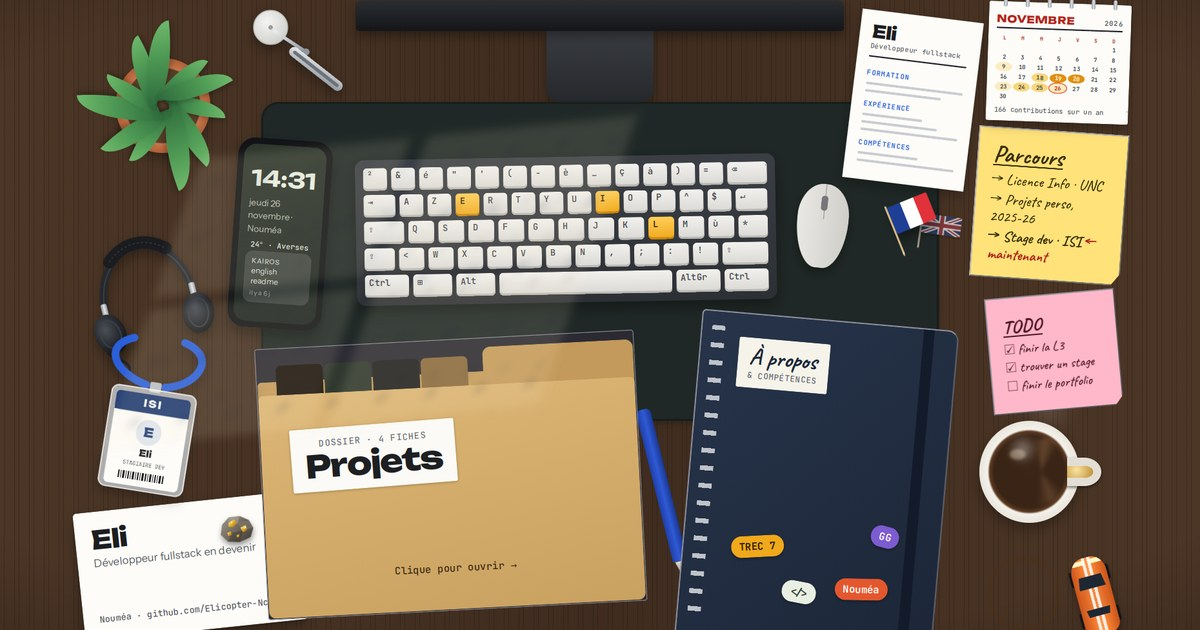
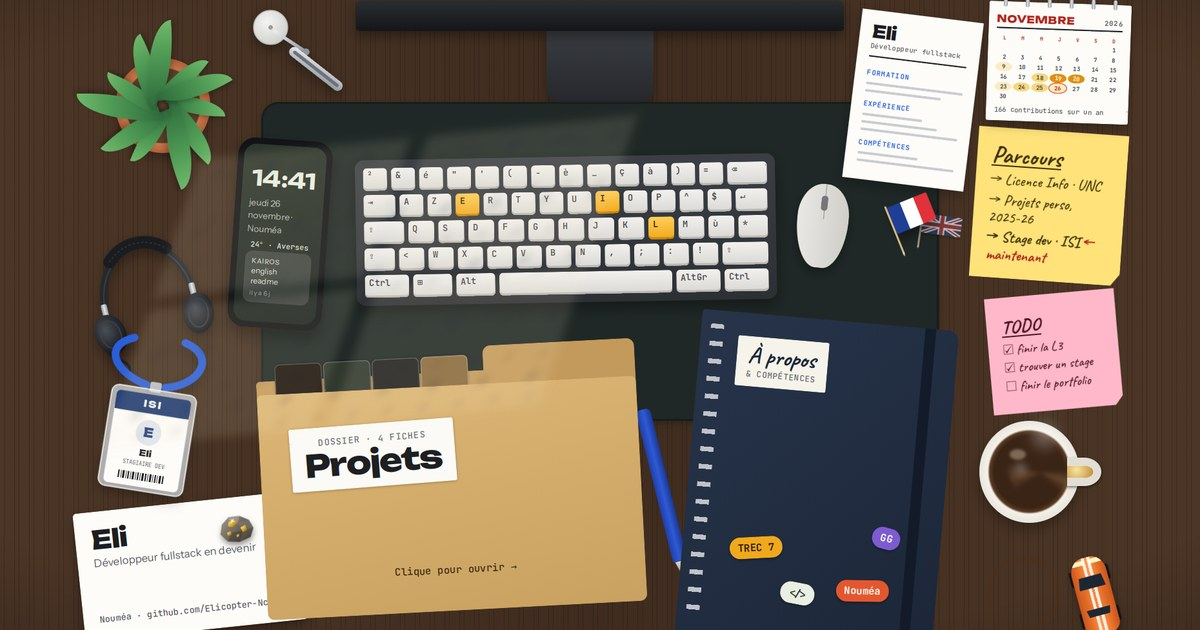
Retire le contour des boutons du dossier et du carnet

diff --git a/css/style.css b/css/style.css
@@ -35,6 +35,9 @@ button{font:inherit;color:inherit}
     linear-gradient(90deg,var(--wood),var(--wood-2) 50%,var(--wood));}
 .scene{position:absolute;left:50%;top:50%;transform-origin:0 0}
 .obj{position:absolute;transform:rotate(var(--r,0deg))}
+/* les objets cliquables sont des <button> : on retire la bordure et le fond que le navigateur leur ajoute */
+:where(button.obj){border:0;color:inherit;font:inherit}   /* :where = priorité nulle, les styles de chaque objet passent avant */
+.folder-desk{background:none;padding:0}
 .obj.click{cursor:pointer;transition:transform .25s ease,filter .25s ease}
 .obj.click:hover,.obj.click:focus-visible{transform:rotate(var(--r,0deg)) translateY(-8px) scale(1.015);filter:drop-shadow(0 22px 18px rgba(0,0,0,.25))}
 .obj.click:focus-visible{outline:4px solid var(--accent);outline-offset:8px}
@@ -114,7 +117,7 @@ button{font:inherit;color:inherit}
 .folder-desk .fb{position:absolute;inset:0;top:12%;background:var(--kraft-back);border-radius:6px 14px 10px 10px}
 .folder-desk .ft{position:absolute;right:0;top:3%;width:40%;height:12%;background:var(--kraft-back);border-radius:12px 12px 0 0}
 .folder-desk .tabs{position:absolute;left:5%;right:44%;top:6%;height:12%;display:flex;gap:2px}
-.folder-desk .tabs i{flex:1;border-radius:8px 8px 0 0;background:var(--c)}
+.folder-desk .tabs i{flex:1;border-radius:8px 8px 0 0;background:var(--c);box-shadow:inset 0 0 0 1.5px rgba(255,255,255,.22),0 -1px 3px rgba(0,0,0,.25)}
 .folder-desk .ff{position:absolute;inset:0;top:17%;background:linear-gradient(170deg,var(--kraft),#c9a160);border-radius:8px 8px 12px 12px;padding:9% 8%;display:flex;flex-direction:column;justify-content:space-between}
 .folder-desk .lbl{background:var(--paper);color:var(--paper-ink);padding:14px 20px;border-radius:3px;transform:rotate(-1.5deg);box-shadow:0 1px 3px rgba(0,0,0,.25);align-self:flex-start}
 .folder-desk .lbl small{display:block;font:500 13px var(--font-mono);letter-spacing:.08em;color:var(--paper-muted)}
